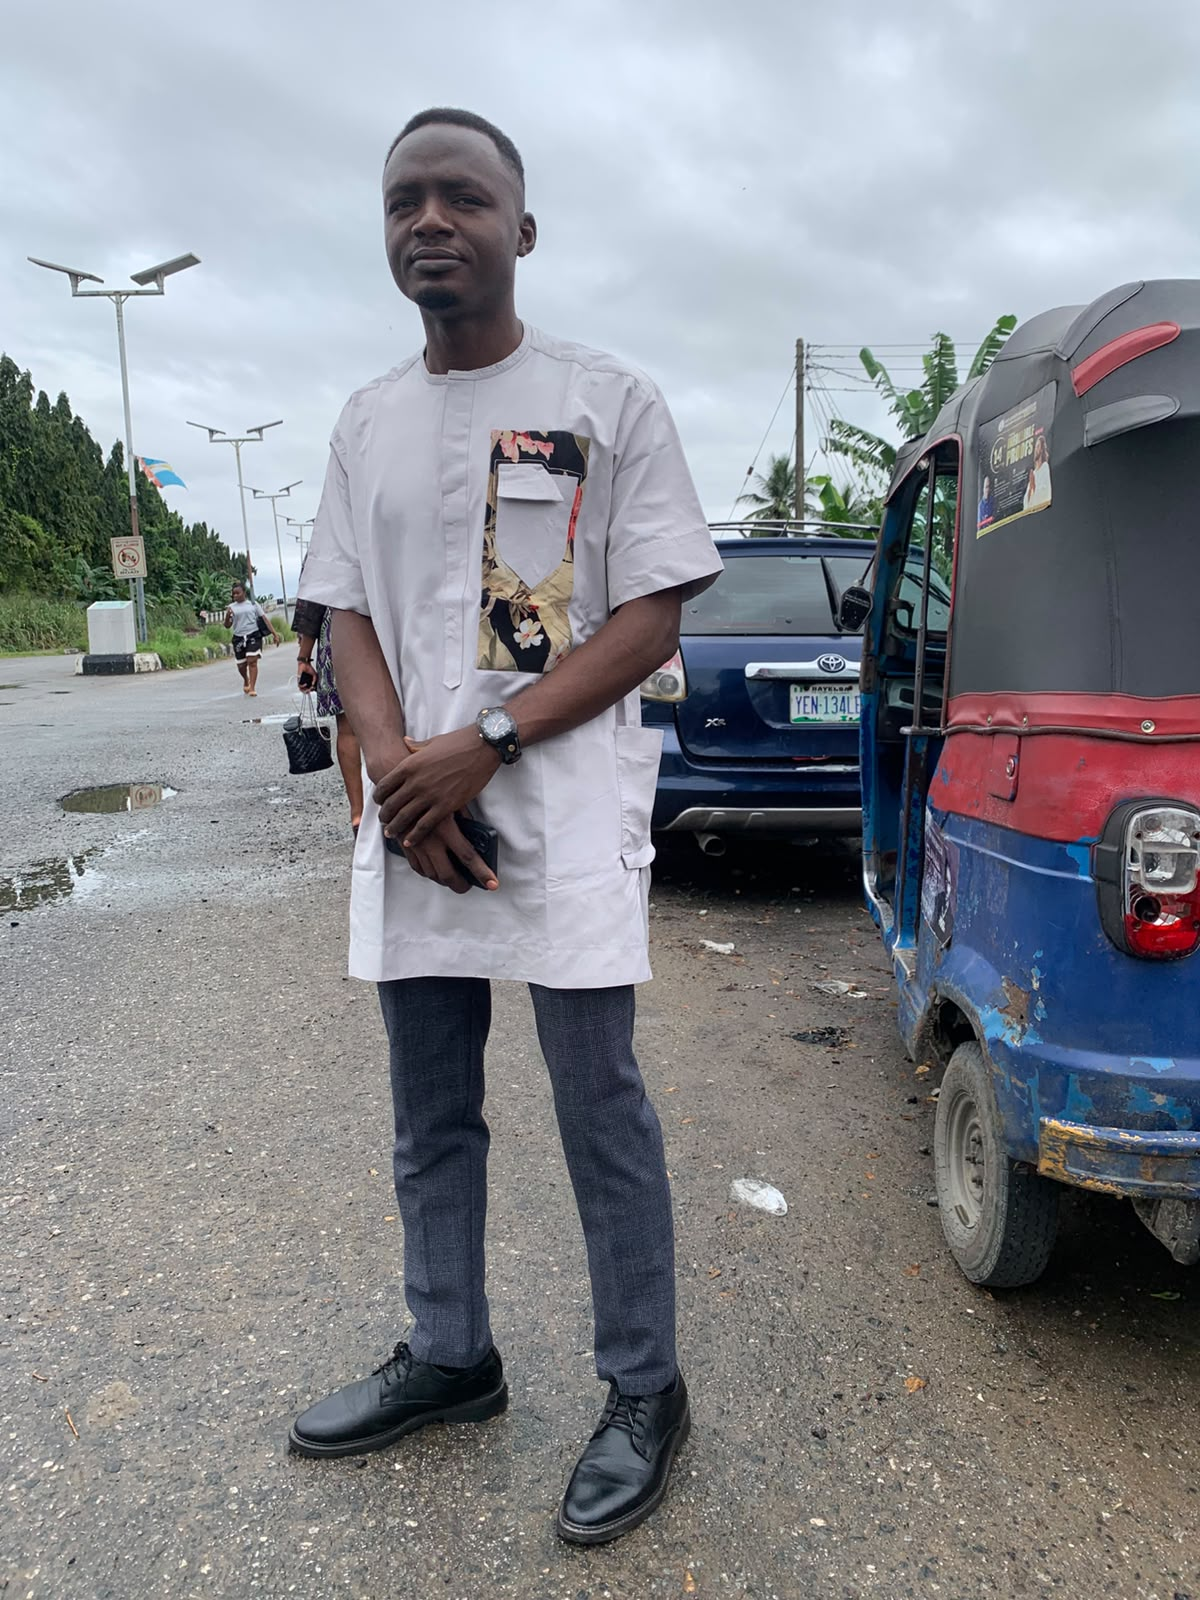
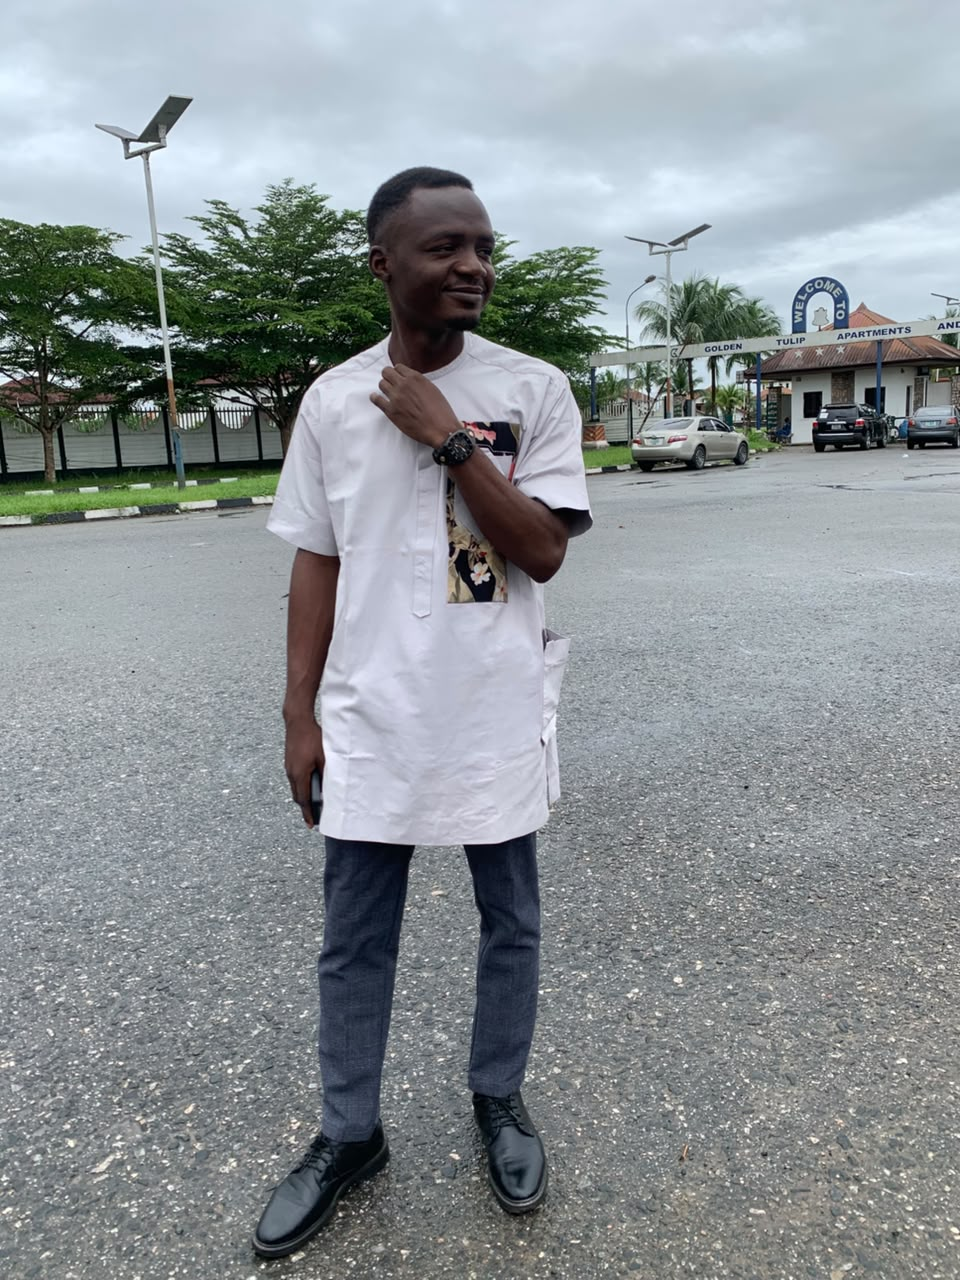
Update Double Joy wedding website

diff --git a/app/squad/page.tsx b/app/squad/page.tsx
@@ -5,15 +5,19 @@ import SiteHero from "../components/SiteHero";
 
 const numbers = Array.from({ length: 10 }, (_, index) => String(index + 1).padStart(2, "0"));
 const bridesmaidPhotos = [
-  { name: "Faith Danladi", image: "/images/Faith%20Danladi.png" },
-  { name: "Gloria Ozoza", image: "/images/Gloria%20Ozoza.png" },
-  { name: "Shehu Favour", image: "/images/Shehu%20Favour.png" },
+  { name: "FAITH DANLADI", image: "/images/Faith%20Danladi.png" },
+  { name: "GLORIA OZOZA", image: "/images/Gloria%20Ozoza.png" },
+  { name: "SHEHU FAVOUR", image: "/images/Shehu%20Favour.png" },
+  { name: "EMMANUEL FAVOUR", image: "/images/Emmanuel%20Favour.jpeg" },
 ];
 const groomsmanPhotos = [
-  { name: "Gbolahan John Olayinka", image: "/images/Gbolahan%20John%20Olayinka.jpg" },
-  { name: "Samuel Ayobami Olayinka", image: "/images/Samuel%20Ayobami%20Olayinka.jpeg" },
-  { name: "Mr. Ayooluwa Adebisi", image: "/images/Mr.%20Ayooluwa%20Adebisi.jpeg" },
-  { name: "Orkeghen Franklyn Fanen", image: "/images/ORKEGHEN%20FRANKLYN%20FANEN.jpeg" },
+  { name: "GBOLAHAN JOHN OLAYINKA", image: "/images/Gbolahan%20John%20Olayinka.jpg" },
+  { name: "SAMUEL AYOBAMI OLAYINKA", image: "/images/Samuel%20Ayobami%20Olayinka.jpeg" },
+  { name: "MR. AYOOLUWA ADEBISI", image: "/images/Mr.%20Ayooluwa%20Adebisi.jpeg" },
+  { name: "ORKEGHEN FRANKLYN FANEN", image: "/images/Orkeghen%20Franklyn%20Fanen.jpeg" },
+  { name: "OLUWAPELUMI ISAAC OLAYINKA", image: "/images/Oluwapelumi%20Isaac%20Olayinka.jpeg" },
+  { name: "VICTOR AYODELE OTUN", image: "/images/Victor%20Ayodele%20Otun.jpeg" },
+  { name: "GIDEON AMOTO JOSIAH", image: "/images/GIDEON%20AMOTO%20JOSIAH.jpeg" },
 ];
 
 export default function SquadPage() {
@@ -34,7 +38,7 @@ export default function SquadPage() {
           </header>
           <div className="grid gap-16 md:grid-cols-2 md:gap-14">
             <SquadGroup title="Bride’s Side" honorRole="Maid of Honor" memberRole="Bridesmaid" memberLabel="Bridesmaids" photos={bridesmaidPhotos} />
-            <SquadGroup title="Groom’s Side" honorRole="Best Man" memberRole="Groomsman" memberLabel="Groomsmen" photos={groomsmanPhotos} />
+            <SquadGroup title="Groom’s Side" honorRole="Best Man" honorName="OLADAYO SUNDAY OLAYINKA" honorImage="/images/Oladayo%20Sunday%20Olayinka.jpeg" memberRole="Groomsman" memberLabel="Groomsmen" photos={groomsmanPhotos} />
           </div>
         </div>
       </section>
@@ -43,7 +47,7 @@ export default function SquadPage() {
   );
 }
 
-function SquadGroup({ title, honorRole, memberRole, memberLabel, photos }: { title: string; honorRole: string; memberRole: string; memberLabel: string; photos: { name: string; image: string }[] }) {
+function SquadGroup({ title, honorRole, honorName, honorImage, memberRole, memberLabel, photos }: { title: string; honorRole: string; honorName?: string; honorImage?: string; memberRole: string; memberLabel: string; photos: { name: string; image: string }[] }) {
   return (
     <section aria-label={title}>
       <div className="mb-5 border-b border-[#176044]/15 pb-4">
@@ -51,7 +55,7 @@ function SquadGroup({ title, honorRole, memberRole, memberLabel, photos }: { tit
         <span className="mt-2 block text-[10px] uppercase tracking-[0.2em] text-[#b28a3e]">Wedding Party</span>
       </div>
       <h3 className="mb-4 text-[10px] uppercase tracking-[0.2em] text-[#806a3a]">{honorRole}</h3>
-      <div className="max-w-[11rem]"><Portrait role={honorRole} number="" /></div>
+      <div className="max-w-[11rem]"><Portrait role={honorRole} number="" name={honorName} image={honorImage} /></div>
       <h3 className="mb-4 mt-9 text-[10px] uppercase tracking-[0.2em] text-[#806a3a]">{memberLabel}</h3>
       <div className="grid grid-cols-2 gap-x-4 gap-y-7 sm:grid-cols-3">
         {numbers.map((number, index) => {

diff --git a/app/invitation/page.tsx b/app/invitation/page.tsx
@@ -3,6 +3,8 @@ import SiteFooter from "../components/SiteFooter";
 import SiteHeader from "../components/SiteHeader";
 import SiteHero from "../components/SiteHero";
 
+const invitationImage = "/invitation/Wedding%20Invitation.jpeg";
+
 export default function InvitationPage() {
   return (
     <main className="min-h-screen bg-white text-[#176044]">
@@ -13,14 +15,13 @@ export default function InvitationPage() {
           <p className="mb-5 text-[10px] uppercase tracking-[0.3em] text-[#176044]">You are invited</p>
           <h1 className="font-serif text-4xl md:text-5xl">We would love to celebrate with you.</h1>
           <Image
-            src="/invitation.png"
+            src={invitationImage}
             alt="Wedding invitation for Joy Oyiza Josiah and Ayoola Peter Olayinka, Saturday 12 December 2026 in Okene, Kogi State"
             width={1200}
             height={1600}
-            unoptimized
             className="mx-auto mt-10 h-auto w-full max-w-sm"
           />
-          <a href="/invitation.png" download="Joy-and-Ayoola-Wedding-Invitation.png" className="mt-8 inline-block border border-[#70263a] px-7 py-3 text-[10px] uppercase tracking-[0.2em] text-[#70263a] transition hover:bg-[#70263a] hover:text-white">Download Invitation</a>
+          <a href={invitationImage} download="Joy-and-Ayoola-Wedding-Invitation.jpeg" className="mt-8 inline-block border border-[#70263a] px-7 py-3 text-[10px] uppercase tracking-[0.2em] text-[#70263a] transition hover:bg-[#70263a] hover:text-white">Download Invitation</a>
         </div>
       </section>
       <SiteFooter />

diff --git a/app/page.tsx b/app/page.tsx
@@ -1,3 +1,4 @@
+import Countdown from "./components/Countdown";
 import SiteFooter from "./components/SiteFooter";
 import SiteHeader from "./components/SiteHeader";
 import SiteHero from "./components/SiteHero";
@@ -10,6 +11,15 @@ export default function Home() {
         image="/images/hero3.png"
         imageAlt="Joy and Ayoola standing together in their wedding attire"
       />
+      <section className="bg-[#f8f7f5] px-6 py-12 text-center sm:py-16">
+        <div className="mx-auto max-w-3xl">
+          <p className="mb-3 text-[10px] uppercase tracking-[0.3em] text-[#b28a3e]">Counting down to our day</p>
+          <Countdown />
+          <p className="mx-auto mt-8 max-w-xl font-serif text-xl leading-relaxed text-[#70263a] sm:text-2xl">
+            We can&apos;t wait to celebrate our special day with you. Help us capture every moment with Joy.
+          </p>
+        </div>
+      </section>
       <SiteFooter />
     </main>
   );

diff --git a/app/components/SiteHero.tsx b/app/components/SiteHero.tsx
@@ -17,7 +17,7 @@ export default function SiteHero({
   return (
     <section
       aria-labelledby="wedding-hero-title"
-      className={`relative flex overflow-hidden px-6 text-center ${hasImage ? "min-h-[calc(100svh-5rem)] items-end justify-center bg-black pb-1 pt-10 text-white md:pb-10" : `items-center justify-center bg-white py-14 text-[#176044] ${compact ? "min-h-[24rem] md:min-h-[30rem]" : "min-h-[calc(100svh-5rem)] py-16"}`}`}
+      className={`relative flex overflow-hidden px-6 text-center ${hasImage ? "h-[72svh] min-h-[24rem] max-h-[48rem] items-end justify-center bg-black pb-1 pt-10 text-white md:pb-10" : `items-center justify-center bg-white py-14 text-[#176044] ${compact ? "min-h-[24rem] md:min-h-[30rem]" : "min-h-[calc(100svh-5rem)] py-16"}`}`}
     >
       {image && (
         <>

diff --git a/app/layout.tsx b/app/layout.tsx
@@ -1,5 +1,17 @@
 import type { Metadata } from "next";
+import { Cormorant_Garamond, DM_Sans } from "next/font/google";
 import "./globals.css";
+
+const displayFont = Cormorant_Garamond({
+  subsets: ["latin"],
+  variable: "--font-display",
+  weight: ["400", "500", "600", "700"],
+});
+
+const bodyFont = DM_Sans({
+  subsets: ["latin"],
+  variable: "--font-body",
+});
 
 export const metadata: Metadata = {
   title: "Double Joy | Joy & Ayoola",
@@ -18,7 +30,7 @@ export default function RootLayout({
   children: React.ReactNode;
 }>) {
   return (
-    <html lang="en">
+    <html lang="en" className={`${displayFont.variable} ${bodyFont.variable}`}>
       <body>{children}</body>
     </html>
   );

diff --git a/app/globals.css b/app/globals.css
@@ -17,7 +17,7 @@ body {
   margin: 0;
   background: var(--white);
   color: var(--text);
-  font-family: Arial, Helvetica, sans-serif;
+  font-family: var(--font-body), sans-serif;
 }
 
 h1, h2 { color: var(--oxblood); }
@@ -31,4 +31,4 @@ h1, h2 { color: var(--oxblood); }
 ::-webkit-scrollbar-track { background: var(--white); }
 ::-webkit-scrollbar-thumb { background: var(--gold); border-radius: 999px; }
 
-.font-serif { font-family: Georgia, "Times New Roman", serif; }
+.font-serif { font-family: var(--font-display), Georgia, serif; }
